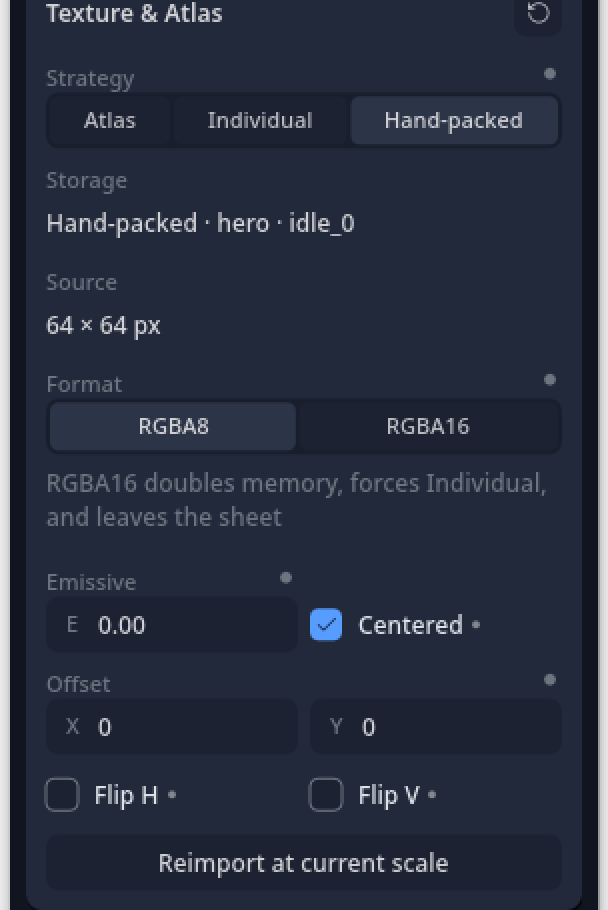
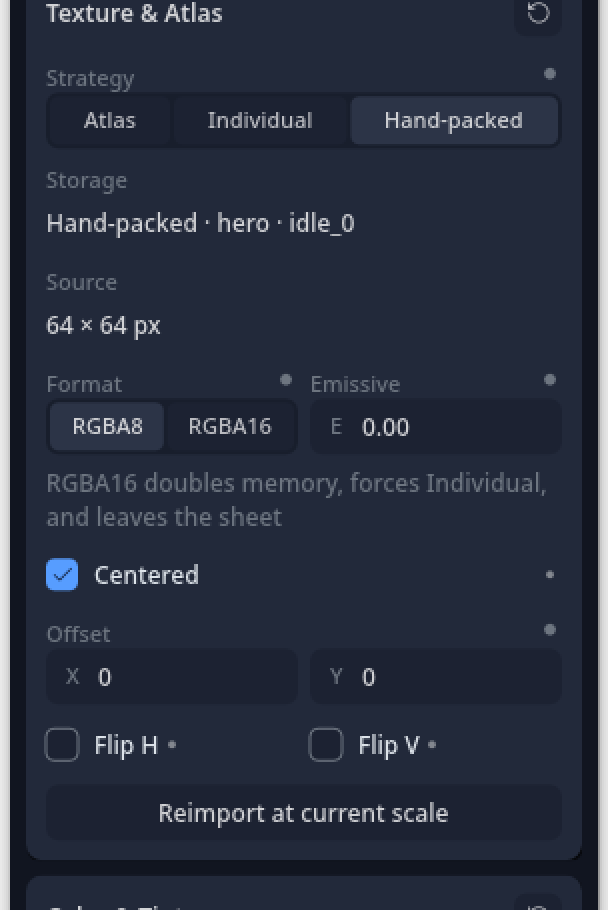
fix(NovaUI): Render Source no estado real: a frase do preço depois de Format + Emissive, e quebra em vez de cortar
A fixtura publicava source_precision None, estado que a app só tem sem imagem, e escondia o caminho. Passa a Rgba8, sem subir catraca.

diff --git a/crates/ph2d-panel-inspector/src/sections/render_source_precision.rs b/crates/ph2d-panel-inspector/src/sections/render_source_precision.rs
@@ -79,45 +79,45 @@ pub(super) fn paint_precision_row(
         ],
         seccao,
     );
-    // A consequência, escrita ANTES do clique. Só aparece quando há algo a avisar — um sprite que
-    // já é de 16 bits não precisa de ler o preço outra vez.
-    if info.source_precision == Some(ph2d_editor_core::Precision::Rgba8) {
-        // ⚠ **A consequência de SAIR DA FOLHA estava em falta** (auditoria
-        // `docs/Sprite_projeto/20` §4.2). Numa peça hand-packed a conversão faz
-        // `drop_sheet_authorship` — a sprite deixa de ser uma peça — e nem esta linha nem o toast
-        // («Format · RGBA16») o diziam, enquanto a linha Storage uma acima continuava a ler
-        // *«Hand-packed · folha · região»*. O doc desta função argumenta exatamente que *uma
-        // consequência que só aparece depois do clique lê-se como bug*; faltava aplicá-lo aqui.
-        let consequence = if matches!(info.source_kind, InspectorSpriteSource::HandPacked { .. }) {
-            tr("panel.inspector.render_source.rgba16_doubles_memory_forces_individual")
-        } else {
-            tr("panel.inspector.render_source.rgba16_doubles_memory_and_forces")
-        };
-        // Num cartão a frase quebra: cortada a meio não diz a consequência (foto a2).
-        if ph2d_editor_core::widget::card_ink::card_body().is_some() {
-            cur_y = super::rows::aviso(
-                scene,
-                text_system,
-                theme,
-                x,
-                w,
-                cur_y,
-                consequence,
-                ColorToken::Text2,
-            );
-        } else {
-            paint_text(
-                text_system,
-                scene,
-                consequence,
-                x,
-                cur_y,
-                label_font,
-                w,
-                resolve(ColorToken::Text2, theme),
-            );
-            cur_y += label_font;
-        }
+    // Num cartão a frase vem depois da fila do Format e do Emissive, que dividem a linha (05 §4, lei 1).
+    if ph2d_editor_core::widget::card_ink::card_body().is_none() {
+        cur_y = paint_precision_price(scene, text_system, theme, info, x, w, cur_y);
     }
     cur_y + ph2d_editor_core::widget::panel_chrome::SECTION_INNER_ROW_GAP_PX
+}
+
+/// A consequência, escrita ANTES do clique. Só aparece quando há algo a avisar: um sprite que já é de
+/// 16 bits não precisa de ler o preço outra vez. A frase quebra: cortada a meio não diz o preço (foto a2).
+#[allow(clippy::too_many_arguments)]
+pub(super) fn paint_precision_price(
+    scene: &mut VectorScene,
+    text_system: &mut TextSystem,
+    theme: Theme,
+    info: &InspectorSpriteInfo,
+    x: f32,
+    w: f32,
+    cur_y: f32,
+) -> f32 {
+    if info.source_precision != Some(ph2d_editor_core::Precision::Rgba8)
+        || matches!(info.source_kind, InspectorSpriteSource::CookedTexture)
+    {
+        return cur_y;
+    }
+    // ⚠ Sair da folha também custa: numa peça hand-packed a conversão faz `drop_sheet_authorship`,
+    // e a linha Storage uma acima ainda lê «Hand-packed · folha · região» (`docs/Sprite_projeto/20` §4.2).
+    let consequence = if matches!(info.source_kind, InspectorSpriteSource::HandPacked { .. }) {
+        tr("panel.inspector.render_source.rgba16_doubles_memory_forces_individual")
+    } else {
+        tr("panel.inspector.render_source.rgba16_doubles_memory_and_forces")
+    };
+    super::rows::aviso(
+        scene,
+        text_system,
+        theme,
+        x,
+        w,
+        cur_y,
+        consequence,
+        ColorToken::Text2,
+    )
 }

diff --git a/crates/ph2d-panel-inspector/src/sections/render_source.rs b/crates/ph2d-panel-inspector/src/sections/render_source.rs
@@ -142,6 +142,17 @@ pub(crate) fn paint_render_source_section(
         w,
         cur_y,
     );
+    if ph2d_editor_core::widget::card_ink::card_body().is_some() {
+        cur_y = super::render_source_precision::paint_precision_price(
+            scene,
+            text_system,
+            theme,
+            info,
+            x,
+            w,
+            cur_y,
+        );
+    }
 
     // ⭐ O que era a secção «Sprite Sheet» (plano GameEngineFuncional 07 §4): a pose fica na sprite.
     cur_y = super::sprite_pose::paint_sprite_pose_rows(

diff --git a/crates/ph2d-panel-registry-init/tests/it/o_inspector_armado.rs b/crates/ph2d-panel-registry-init/tests/it/o_inspector_armado.rs
@@ -131,7 +131,7 @@ fn arma_a_sprite(uso: ph2d_editor_core::InspectorImageUse) {
             sheet: 1,
             region: 2,
         },
-        source_precision: None,
+        source_precision: Some(ph2d_editor_core::Precision::Rgba8),
         emissive: 0.0,
         sheet_label: Some("hero · idle_0".to_string()),
         source_pixels: Some((64, 64)),

diff --git a/docs/CartoesUI/10_TODO_O_APP_TRACKER.md b/docs/CartoesUI/10_TODO_O_APP_TRACKER.md
@@ -757,4 +757,4 @@ Contraprovas: 8 mutantes, 8 vermelhos. O da guarda de foco sobreviveu à 1.ª ro
 - **q4, Frames e o plano de 18 (04/11):** tira de Frames convertida (`crates/ph2d-panel-flip-frames/src/barra_cartoes.rs`, célula 78 → 118 px, 98 antes), letras na fila (`panel::cards::letras`), título de grupo e nome de camada no meio da faixa, Chain na coluna, nomes do Audio em Plain English só na tabela. Olhados: Painter (6 estados), Wet Tuning, Color Eq, Bones, Tokens, Grid, Motion Graph no app. Testes `os_cartoes` de Frames: 13 (botão, número escrito, scrub e Esc, listas, grupos, janela estreita, dicas); `letras::tests` 3. Contraprovas 12/12 vermelhas; a do `desce` do grupo sobreviveu à 1.ª ronda e ganhou teste. A Chain e o verde de `paint_cells` só têm foto. Alheios vistos vermelhos, com WIP de outros: `no_magic_numeric` (`audio-mixer/cards.rs:310`), `nenhum_rotulo_do_app_pinta_nada` (audio_mixer, authored, vector: «baixe-os»). Catracas: `POPULACAO` igual; `PENDENTES_RITMO` widget_gallery 18→16 (a régua aprendeu o rótulo ao lado); `onde_comeca_o_valor` declara `flip_frames` (barra em fluxo, 2 colunas). Lista em [18](18_REVISAO_DE_CAPRICHO.md).
 - **q3, capricho dos outros painéis (04/11):** lista em [18](18_REVISAO_DE_CAPRICHO.md) §«Os outros painéis». `PENDENTES_RITMO`: audio_editor 4→0, macros 1→0, painter_layers 6→0, wet_tuning 8→0. Piso de `painter_layers` 700→690: os rótulos de grupo sobre um controlo deixaram de ser linhas. Curados: botões soltos do Audio Editor, Macros sem recuo, grupos do Advanced, Align, verbos do Pixel aos pares, nomes abreviados. Arnês `q_foto_paineis`.
 - **q2, fim do capricho do Inspector (04/11):** famílias A2, H2, I, J, K, L, M, N, O curadas, lista em [18](18_REVISAO_DE_CAPRICHO.md). `PENDENTES_RITMO` do `inspector`: 6→0. API nova: `sections/instance_cartao.rs`, `rows::caixa_de_alvo`, `rows::folga_da_linha`, `card_field::paint_amostra` (`card_field/valor.rs`). Fotos `maquete/q2_*`. **`two_pinned_fill_cards_on_different_objects_edit_their_own` era produto:** com o foco num campo de A, o ⠿ e a amostra de B liam `card_edit_subject`, que devolve o sujeito do commit que saiu do foco; lêem agora `card_press_subject`. **`nenhum_rotulo_do_app_pinta_nada` vinha desta linha:** última medida a 03/11, antes de Hierarchy, Tokens, Wet e Audio em cartões. Curados: selo da Hierarchy, Tokens 60→0, Wet 15→0; o censo aceita título em maiúsculas, código de cor e nome técnico cortado. Catraca **sobe**, medida e nomeada no ficheiro, só no degrau de 220 px: `audio_editor` 1→7, `audio_mixer` 5→6, `authored` 1→2, `vector` 0→2, `painter_layers` 0→1, `pixel_tools` 0→1. Desce: `inspector` 84→80 e 82→78, `flip` 4→0, `tags` 2→0, `color_equalization` 1→0, `tokens` e `wet_tuning`. Os scrubs de `o_alfinete` reprovam em paralelo e passam em fila (49 de 49): os painéis do registo são um só no processo; `a_vez_da_mesa` põe as mesas em fila: `o_alfinete` 49 de 49 em `--profile smoke`. **Aberto:** a variável exacta não foi isolada, e em perfil de omissão, no grupo, `every_scrub_handle_of_the_pinned_object_cards_survives_the_frames` ainda reprova (sozinho passa). Contraprovas: o vermelho antes da cura do ⠿ e um mutante de `Mao::botao` (vermelho); o lote de 12 não coube no prazo.
-- **R6, as duas recusas do coordenador (04/11):** **(1) A catraca volta a descer, abaixo de onde estava antes de subir:** `audio_editor` 7→0 (era 1), `audio_mixer` 6→3 (era 5), `authored` 2→0 (era 1), `vector` 2→0, `painter_layers` 1→0, `pixel_tools` 1→0. Abas num cartão no corpo do segmentado (`tabs.rs`), `Tabs::fit_words` nas abas do Vector; Delay, Foreground/Background e Sync descem na coluna estreita (lei 5 de 05 §4); `audio_editor::cards::grupo::fileiras`, a porta dos blocos de botões. **(2) `a_vez_da_mesa` saiu, causa achada:** `InspectorState::last_entity`, um só no processo; a troca chama `end_number_input_drag`. Medida intercalada e cura (`ErasedPanel` por fio) em [FLAKES_DE_CARGA](../DevOps/FLAKES_DE_CARGA.md) §«A espécie do estado do painel». Sem defeito de produto: a app pinta num fio. **(3) `o_advanced_separa…`:** dono `8fd2fa000b` (q4): o título do grupo subiu 3,2 px para a altura do chevron; `membro` desconta a folga. **Binário inteiro a 8 fios:** antes 14 vermelhos, 316 de 316 depois, sem fila. 3 saíram com o estado por fio. 11 reprovavam até sozinhos: o `o_advanced_separa…` acima e 10 réguas atrasadas em relação ao produto: a coluna de ferramentas sem a porta `clear_of_left_list` (5), a moldura a medir a coluna em vez da lista flutuante (1), «Bgremoval» já é «Background Removal» (1), letra de Damping `D A` do q4 (1), «Now: 42» de dois contadores com o mesmo número na fixtura (1), altura da mola lida como «moveu» (1). Nestas 10 mudei o teste, e o produto ficou igual. Não corri nextest. O binário de teste de `ph2d-panel-painter-layers` não compilava desde `52ab8e0112` (`Censo.pecas`); curado, `os_cartoes` 165 verdes. **(4) Contraprovas:** 16 mutantes (os 12 do q2 + erased, fileiras, tabs, cards_avancado), controlo verde antes, 16 vermelhos, 0 sobreviventes, árvore restaurada. **(5) Fotos** `maquete/r6_*`, em [18](18_REVISAO_DE_CAPRICHO.md). **(6)** `the_shell_only_shrinks`, `architecture_panel_loc_cap`, `no_magic_numeric`, `hr12_widgets_a11y`, `todo_campo_pintado_com_losango` (13) e os 30 de `lei_da_compactacao` e irmãos verdes; `cargo metadata --locked` passa e `Cargo.lock` sem diff.
+- **R6, as duas recusas do coordenador (04/11):** **(1) A catraca volta a descer, abaixo de onde estava antes de subir:** `audio_editor` 7→0 (era 1), `audio_mixer` 6→3 (era 5), `authored` 2→0 (era 1), `vector` 2→0, `painter_layers` 1→0, `pixel_tools` 1→0. Abas num cartão no corpo do segmentado (`tabs.rs`), `Tabs::fit_words` nas abas do Vector; Delay, Foreground/Background e Sync descem na coluna estreita (lei 5 de 05 §4); `audio_editor::cards::grupo::fileiras`, a porta dos blocos de botões. **(2) `a_vez_da_mesa` saiu, causa achada:** `InspectorState::last_entity`, um só no processo; a troca chama `end_number_input_drag`. Medida intercalada e cura (`ErasedPanel` por fio) em [FLAKES_DE_CARGA](../DevOps/FLAKES_DE_CARGA.md) §«A espécie do estado do painel». Sem defeito de produto: a app pinta num fio. **(3) `o_advanced_separa…`:** dono `8fd2fa000b` (q4): o título do grupo subiu 3,2 px para a altura do chevron; `membro` desconta a folga. **Binário inteiro a 8 fios:** antes 14 vermelhos, 316 de 316 depois, sem fila. 3 saíram com o estado por fio. 11 reprovavam até sozinhos: o `o_advanced_separa…` acima e 10 réguas atrasadas em relação ao produto: a coluna de ferramentas sem a porta `clear_of_left_list` (5), a moldura a medir a coluna em vez da lista flutuante (1), «Bgremoval» já é «Background Removal» (1), letra de Damping `D A` do q4 (1), «Now: 42» de dois contadores com o mesmo número na fixtura (1), altura da mola lida como «moveu» (1). Nestas 10 mudei o teste, e o produto ficou igual. Não corri nextest. O binário de teste de `ph2d-panel-painter-layers` não compilava desde `52ab8e0112` (`Censo.pecas`); curado, `os_cartoes` 165 verdes. **(4) Contraprovas:** 16 mutantes (os 12 do q2 + erased, fileiras, tabs, cards_avancado), controlo verde antes, 16 vermelhos, 0 sobreviventes, árvore restaurada. **(5) Fotos** `maquete/r6_*`, em [18](18_REVISAO_DE_CAPRICHO.md). A do Render Source desmentiu a fixtura (`source_precision: None`): frase do preço depois de Format + Emissive, fixtura em `Rgba8`, 17.º mutante vermelho. **(6)** `the_shell_only_shrinks`, `architecture_panel_loc_cap`, `no_magic_numeric`, `hr12_widgets_a11y`, `todo_campo_pintado_com_losango` (13) e os 30 de `lei_da_compactacao` e irmãos verdes; `cargo metadata --locked` passa e `Cargo.lock` sem diff.

diff --git a/docs/CartoesUI/18_REVISAO_DE_CAPRICHO.md b/docs/CartoesUI/18_REVISAO_DE_CAPRICHO.md
@@ -118,4 +118,8 @@ Tudo fotografado depois das curas: [Frames, arnês](maquete/q4_frames.png) · [F
 
 ## Ainda por fotografar
 
-Forma (Fill, Stroke, Appearance, Transform): olhada, [q2_forma.png](maquete/q2_forma.png), sem defeito. Render Source: linhas Strategy, Storage e Source na Texture & Atlas das fotos do arnês. **Falta:** Texto e Effects com uma camada (sem cena à mão nesta fatia), e o cartão Objeto de cada tipo. Cartões nas outras janelas: `PENDENTES_RITMO` aponta os deles.
+Forma (Fill, Stroke, Appearance, Transform): olhada, [q2_forma.png](maquete/q2_forma.png), sem defeito. R6, arnês (`PH2D_FOTO_OBJETO=vetor|imagem|outro`): [Text](maquete/r6_texto.png), [Effects com duas camadas](maquete/r6_effects.png), [Object de cada tipo](maquete/r6_objeto_de_cada_tipo.png), [Render Source](maquete/r6_render_source.png). Object: ícone do tipo, nome e olho, igual nos três; o cadeado só nasce com linha na Hierarchy, e a foto não a tem. Cartões nas outras janelas: `PENDENTES_RITMO` aponta os deles.
+
+**Curado, achado pela foto do Render Source.** O arnês publicava `source_precision: None`, estado que a app só tem sem imagem, e escondia o caminho real: com `Rgba8` a frase do preço separava `Format` de `Emissive` (`lei_da_compactacao`: `Source + Format`), e cortava a 268 px com `PH2D_CARDS=0`. Num cartão a frase vem agora depois da fila dos dois; fora dele, quebra em vez de cortar (a única mudança no painel de antes). A fixtura passa a `Rgba8`, sem subir catraca. Contraprova: a frase de volta antes do `Emissive` ⇒ vermelho.
+
+**Baixo, visto nas fotos, não curado:** o resumo do Variant quebra com o «·» no início da linha 2.
